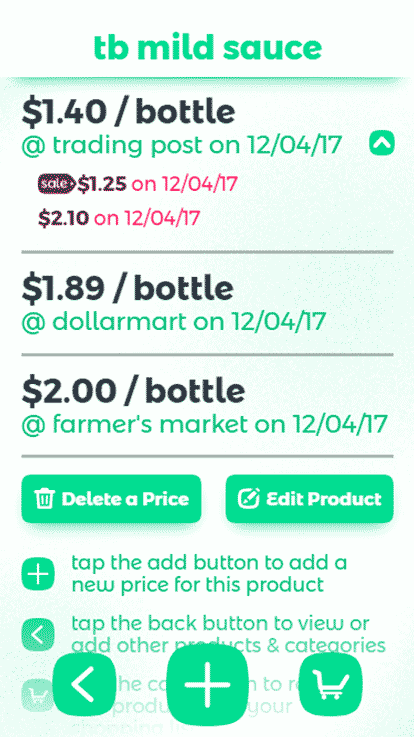
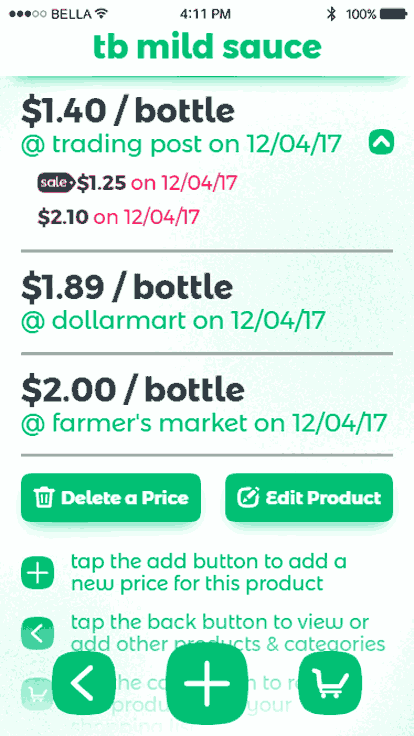
fix wrong image format

diff --git a/components/TheHeader.vue b/components/TheHeader.vue
@@ -143,7 +143,7 @@ $phoneMockupHeight: 30rem;
 }
 
 .phone-screen {
-  background: url('~assets/images/app-screenshot.jpg?disable=true');
+  background: url('~assets/images/app-screenshot.png?disable=true');
   background-size: 100% 100%;
   position: absolute;
   top: 2.7%;
